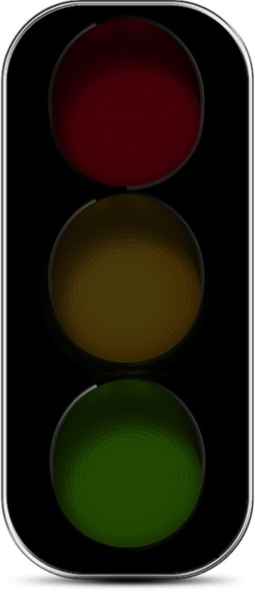
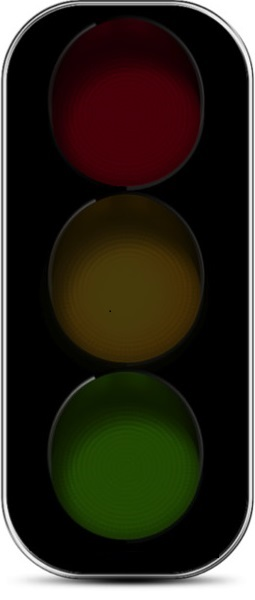
Добавляет рабочий алгоритм смены всех трех цветов светофора: верный порядок, таймер с десятичной долей секунды, мигание светофора на 3 секундах.
Добавляет компонент таймер отображающий количество оставшихся секунд;

Changed region(s): [[0.2471, 0.75, 0.8235, 0.93], [0.1922, 0.6, 0.7686, 0.75]]

diff --git a/src/components/ligth/Ligth.tsx b/src/components/ligth/Ligth.tsx
@@ -28,6 +28,10 @@ const Light: React.FC<PropTypes> = ({ match, baseTime }) => {
     const nextLigthUrl: string | null = useSelector(
         (state: RootState) => state.nextLigthUrl,
     );
+    const directionController: boolean | null = useSelector(
+        (state: RootState) => state.directionController,
+    );
+    const time: number | null = useSelector((state: RootState) => state.time);
 
     let imageSrc = empty;
 
@@ -40,24 +44,41 @@ const Light: React.FC<PropTypes> = ({ match, baseTime }) => {
     if (url === '/green') {
         imageSrc = green;
     }
+    if (
+        ((time as number) < 3 && (time as number) > 2.5) ||
+        ((time as number) < 2 && (time as number) > 1.5) ||
+        ((time as number) < 1 && (time as number) > 0.5)
+    ) {
+        imageSrc = empty;
+    }
+
+    if (prevLigth !== url) {
+        dispatch(lightActions.setCurrentLight(url));
+    }
 
     useEffect(() => {
-        dispatch(lightActions.changePrevLight(url));
-
-        const activeTimer = setInterval(() => {
-            if (prevLigth === '/green') {
-                dispatch(lightActions.changeNextLightUrl('/red'));
+        const mainTimer = setInterval(() => {
+            if (time === null) {
+                dispatch(lightActions.setTime(baseTime));
+            } else if (time > 0) {
+                dispatch(lightActions.setTime(+(time - 0.1).toFixed(1)));
+            } else {
+                if (prevLigth === '/green') {
+                    dispatch(lightActions.changeLight('/yellow', 3, true));
+                }
+                if (prevLigth === '/red') {
+                    dispatch(lightActions.changeLight('/yellow', 3, false));
+                }
+                if (prevLigth === '/yellow' && !directionController) {
+                    dispatch(lightActions.changeLight('/green', 15, true));
+                }
+                if (prevLigth === '/yellow' && directionController) {
+                    dispatch(lightActions.changeLight('/red', 10, false));
+                }
             }
-            if (prevLigth === '/red') {
-                dispatch(lightActions.changeNextLightUrl('/green'));
-            }
-        }, baseTime);
+        }, 100);
 
-        return () => {
-            clearInterval(activeTimer);
-
-            console.log('unmount');
-        };
+        return () => clearInterval(mainTimer);
     });
 
     if (
@@ -66,7 +87,6 @@ const Light: React.FC<PropTypes> = ({ match, baseTime }) => {
         prevLigth !== null &&
         nextLigthUrl !== null
     ) {
-        console.log('redirect');
         return <Redirect to={`${nextLigthUrl}`} />;
     }
 

diff --git a/src/reducers/ligthReducer.ts b/src/reducers/ligthReducer.ts
@@ -1,7 +1,8 @@
 export type StateType = {
-    timer: null | number;
+    time: null | number;
     prevLigthUrl: null | string;
     nextLigthUrl: null | string;
+    directionController: boolean;
 };
 
 type ActionType = {
@@ -9,12 +10,14 @@ type ActionType = {
     time: number;
     prevUrl: string;
     nextUrl: string;
+    direction: boolean;
 };
 
 const initialState = {
-    timer: null,
+    time: null,
     prevLigthUrl: null,
     nextLigthUrl: null,
+    directionController: false,
 };
 
 const ligthReducer = (
@@ -22,18 +25,21 @@ const ligthReducer = (
     action: ActionType,
 ): StateType => {
     switch (action.type) {
-        case 'INCREACE_TIMER':
-            return { ...state, timer: action.time };
         case 'SET_TIME':
             return {
                 ...state,
-                timer: action.time,
+                time: action.time,
             };
-        case 'CHANGE_PREV_LIGHT':
+        case 'CHANGE_LIGHT': {
+            return {
+                ...state,
+                nextLigthUrl: action.nextUrl,
+                time: action.time,
+                directionController: action.direction,
+            };
+        }
+        case 'SET_CURRENT_LIGTH': {
             return { ...state, prevLigthUrl: action.prevUrl };
-
-        case 'CHANGE_NEXT_LIGHT': {
-            return { ...state, nextLigthUrl: action.nextUrl };
         }
 
         default:

diff --git a/src/reducers/ligthActions.ts b/src/reducers/ligthActions.ts
@@ -3,14 +3,16 @@ type SetTimeType = {
     time: number;
 };
 
-type SetLightType = {
-    type: string;
-    prevUrl: string;
-};
-
-type SetRedirectType = {
+type ChangeLightType = {
     type: string;
     nextUrl: string;
+    time: number;
+    direction?: boolean;
+};
+
+type SetCurrentLightType = {
+    type: string;
+    prevUrl: string;
 };
 
 const lightActions = {
@@ -19,19 +21,20 @@ const lightActions = {
         time,
     }),
 
-    increaceTimer: (time: number): SetTimeType => ({
-        type: 'INCREACE_TIMER',
-        time,
-    }),
-
-    changePrevLight: (prevUrl: string): SetLightType => ({
-        type: 'CHANGE_PREV_LIGHT',
-        prevUrl,
-    }),
-
-    changeNextLightUrl: (nextUrl: string): SetRedirectType => ({
-        type: 'CHANGE_NEXT_LIGHT',
+    changeLight: (
+        nextUrl: string,
+        time: number,
+        direction?: boolean,
+    ): ChangeLightType => ({
+        type: 'CHANGE_LIGHT',
         nextUrl,
+        time,
+        direction,
+    }),
+
+    setCurrentLight: (prevUrl: string): SetCurrentLightType => ({
+        type: 'SET_CURRENT_LIGTH',
+        prevUrl,
     }),
 };
 

diff --git a/src/components/app/App.tsx b/src/components/app/App.tsx
@@ -2,23 +2,24 @@ import React from 'react';
 import { Route, Switch } from 'react-router-dom';
 
 import Ligth from '../ligth';
-// import Timer from '../timer';
+import Timer from '../timer';
 
 const App: React.FC = () => {
     return (
         <div className='App'>
+            <Timer />
             <Switch>
                 <Route
                     path='/green'
-                    render={(props) => <Ligth {...props} baseTime={5000} />}
+                    render={(props) => <Ligth {...props} baseTime={15} />}
                 />
                 <Route
                     path='/red'
-                    render={(props) => <Ligth {...props} baseTime={5000} />}
+                    render={(props) => <Ligth {...props} baseTime={10} />}
                 />
                 <Route
                     path='/yellow'
-                    render={(props) => <Ligth {...props} baseTime={3000} />}
+                    render={(props) => <Ligth {...props} baseTime={3} />}
                 />
             </Switch>
         </div>

diff --git a/src/components/timer/timer.tsx b/src/components/timer/timer.tsx
@@ -1,6 +1,29 @@
 import React from 'react';
+import { useSelector } from 'react-redux';
+
+import { RootState } from '../../store';
+
+import classes from './timer.module.scss';
 
 const Timer: React.FC = () => {
+    const time = useSelector((state: RootState) => state.time);
+
+    if (time === 0) {
+        return (
+            <div className={classes.timerBlock}>
+                <span>Change</span>
+            </div>
+        );
+    }
+
+    if (time !== null) {
+        return (
+            <div className={classes.timerBlock}>
+                <span>{time.toFixed(0)}</span>
+            </div>
+        );
+    }
+
     return null;
 };
 

diff --git a/src/components/timer/timer.module.scss b/src/components/timer/timer.module.scss
@@ -1,0 +1,18 @@
+.timerBlock {
+    position: absolute;
+    bottom: 25px;
+    right: 25px;
+    width: 100px;
+    height: 100px;
+    display: flex;
+    justify-content: center;
+    align-items: center;
+    font-size: 26px;
+    font-weight: 700;
+    border: double gray 6px;
+    border-radius: 100%;
+
+    & span {
+        padding-bottom: 5px;
+    }
+}
